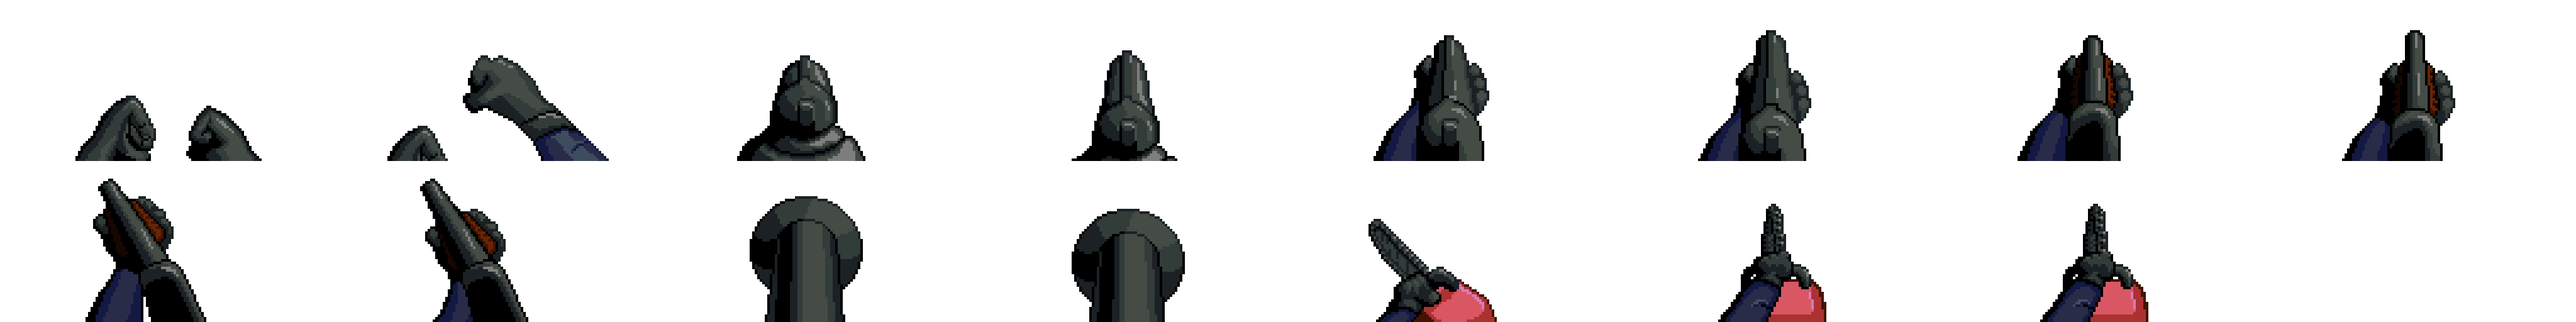
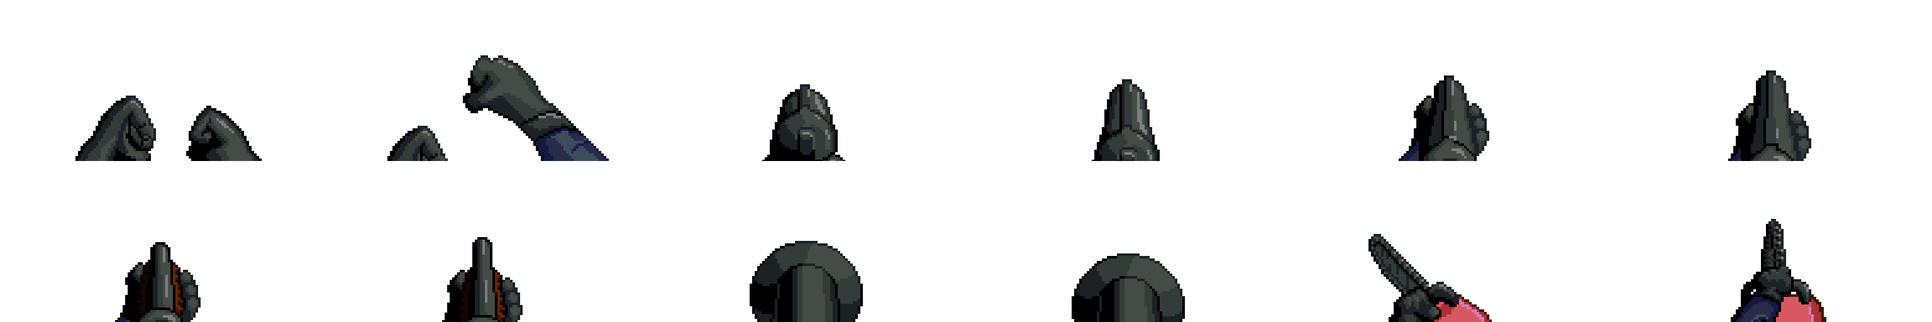
Weapon Changing

diff --git a/DirectX-RetroFPS/DirectX-RetroFPS/Player.cpp b/DirectX-RetroFPS/DirectX-RetroFPS/Player.cpp
@@ -19,7 +19,6 @@ Player::Player(Input& input, float windowWidth, float windowHeight, float moveme
 
 	InitialiseCollider();
 
-	m_shooter.SetDamage(10.0f);
 	m_shooter.SetParent(this);
 
 	m_health.SetMaxValue(100.0f);
@@ -27,11 +26,12 @@ Player::Player(Input& input, float windowWidth, float windowHeight, float moveme
 
 	m_armor.SetMaxValue(100.0f);
 
-	m_weapons[WeaponType::FIST] = std::make_unique<Weapon>(WeaponType::FIST, 2.0f, 0, 0.2f, true);
-	m_weapons[WeaponType::PISTOL] = std::make_unique<Weapon>(WeaponType::PISTOL, 10.0f, 10, 0.5f, false);
-	m_weapons[WeaponType::RIFLE] = std::make_unique<Weapon>(WeaponType::RIFLE, 5.0f, 20, 0.2f, false);
-	m_weapons[WeaponType::SHOTGUN] = std::make_unique<Weapon>(WeaponType::PISTOL, 20.0f, 5, 1.0f, false);
-	m_weapons[WeaponType::CANNON] = std::make_unique<Weapon>(WeaponType::PISTOL, 25.0f, 1, 2.0f, false);
+	m_weapons[WeaponType::FIST] = std::make_unique<Weapon>(WeaponType::FIST, 2.0f, 0, 0.2f, 4.0f, true);
+	m_weapons[WeaponType::CHAINSAW] = std::make_unique<Weapon>(WeaponType::CHAINSAW, 5.0f, 0, 0.5f, 4.0f, true);
+	m_weapons[WeaponType::PISTOL] = std::make_unique<Weapon>(WeaponType::PISTOL, 10.0f, 10, 0.5f, 15.0f, false);
+	m_weapons[WeaponType::RIFLE] = std::make_unique<Weapon>(WeaponType::RIFLE, 15.0f, 20, 0.2f, 15.0f, false);
+	m_weapons[WeaponType::SHOTGUN] = std::make_unique<Weapon>(WeaponType::SHOTGUN, 20.0f, 5, 1.0f, 8.0f, false);
+	m_weapons[WeaponType::CANNON] = std::make_unique<Weapon>(WeaponType::CANNON, 25.0f, 1, 2.0f, 8.0f, false);
 
 	m_shooter.SetWeapon(m_weapons[WeaponType::FIST].get());
 }
@@ -191,5 +191,30 @@ void Player::UpdateShooting(float deltaTime)
 	for (auto& weapon : m_weapons)
 	{
 		weapon.second->Update(deltaTime);
+	}
+
+	if (m_pInput->GetKeyboard().IsKeyDown('1'))
+	{
+		m_shooter.SetWeapon(m_weapons[WeaponType::FIST].get());
+	}
+	else if (m_pInput->GetKeyboard().IsKeyDown('2'))
+	{
+		m_shooter.SetWeapon(m_weapons[WeaponType::CHAINSAW].get());
+	}
+	else if (m_pInput->GetKeyboard().IsKeyDown('3'))
+	{
+		m_shooter.SetWeapon(m_weapons[WeaponType::PISTOL].get());
+	}
+	else if (m_pInput->GetKeyboard().IsKeyDown('4'))
+	{
+		m_shooter.SetWeapon(m_weapons[WeaponType::RIFLE].get());
+	}
+	else if (m_pInput->GetKeyboard().IsKeyDown('5'))
+	{
+		m_shooter.SetWeapon(m_weapons[WeaponType::SHOTGUN].get());
+	}
+	else if (m_pInput->GetKeyboard().IsKeyDown('6'))
+	{
+		m_shooter.SetWeapon(m_weapons[WeaponType::CANNON].get());
 	}
 }

diff --git a/DirectX-RetroFPS/DirectX-RetroFPS/GameHUDScreen.cpp b/DirectX-RetroFPS/DirectX-RetroFPS/GameHUDScreen.cpp
@@ -4,7 +4,7 @@ GameHUDScreen::GameHUDScreen(Graphics& graphics)
 {
 	m_screenType = ScreenType::GAME_HUD;
 
-	std::unique_ptr<AnimatedImageElement> hudWeapons = std::make_unique<AnimatedImageElement>(graphics, "Assets\\UI\\doom_weapons_ui.png", 8, 2);
+	std::unique_ptr<AnimatedImageElement> hudWeapons = std::make_unique<AnimatedImageElement>(graphics, "Assets\\UI\\doom_weapons_ui.png", 6, 2);
 	hudWeapons->SetOffset(Vector(0.0f, 0.0f, 6.0f));
 	hudWeapons->GetTransform().ApplyScalar(8.0f, 6.0f, 1.0f);
 	hudWeapons->ChangeSprite(0);
@@ -102,6 +102,39 @@ void GameHUDScreen::UpdateHUD(Player& player)
 	}
 
 	m_pCharacterDisplay->ChangeSprite(characterIndex);
+	switch (player.GetShooter().GetWeapon()->GetType())
+	{
+		case WeaponType::FIST:
+		{
+			m_pHUDWeapons->ChangeSprite(0);
+			break;
+		}
+		case WeaponType::CHAINSAW:
+		{
+			m_pHUDWeapons->ChangeSprite(10);
+			break;
+		}
+		case WeaponType::PISTOL:
+		{
+			m_pHUDWeapons->ChangeSprite(2);
+			break;
+		}
+		case WeaponType::RIFLE:
+		{
+			m_pHUDWeapons->ChangeSprite(4);
+			break;
+		}
+		case WeaponType::SHOTGUN:
+		{
+			m_pHUDWeapons->ChangeSprite(6);
+			break;
+		}
+		case WeaponType::CANNON:
+		{
+			m_pHUDWeapons->ChangeSprite(8);
+			break;
+		}
+	}
 
 	m_pHealthText->SetText(std::to_string((int)player.GetHealth().GetCurrentValue()));
 	m_pArmorText->SetText(std::to_string((int)player.GetArmor().GetCurrentValue()));

diff --git a/DirectX-RetroFPS/DirectX-RetroFPS/Shooter.cpp b/DirectX-RetroFPS/DirectX-RetroFPS/Shooter.cpp
@@ -2,11 +2,6 @@
 
 #include "Shooter.h"
 
-void Shooter::SetDamage(float damage)
-{
-	m_damage = damage;
-}
-
 void Shooter::SetParent(DrawableBase* drawable)
 {
 	m_pParent = drawable;
@@ -38,9 +33,9 @@ void Shooter::RegisterCollision(CollisionUtilities::RayCollision collision, Draw
 
 void Shooter::HandleHit()
 {
-	if (m_nearestCollisionDrawable != nullptr)
+	if (m_nearestCollisionDrawable != nullptr && m_nearestCollision.IntersectionDistance <= m_pWeapon->GetRange())
 	{
-		m_nearestCollisionDrawable->OnShot(m_pParent, m_damage, m_nearestCollision.IntersectionPosition);
+		m_nearestCollisionDrawable->OnShot(m_pParent, m_pWeapon->GetDamage(), m_nearestCollision.IntersectionPosition);
 	}
 }
 
@@ -57,6 +52,11 @@ bool Shooter::IsShooting()
 Ray& Shooter::GetShootRay()
 {
 	return m_shootRay;
+}
+
+Weapon* Shooter::GetWeapon()
+{
+	return m_pWeapon;
 }
 
 void Shooter::SetWeapon(Weapon* weapon)

diff --git a/DirectX-RetroFPS/DirectX-RetroFPS/Weapon.cpp b/DirectX-RetroFPS/DirectX-RetroFPS/Weapon.cpp
@@ -2,10 +2,11 @@
 
 #include <iostream>
 
-Weapon::Weapon(WeaponType type, float damage, int defaultBullets, float reloadDelay, bool infiniteBullets)
+Weapon::Weapon(WeaponType type, float damage, int defaultBullets, float reloadDelay, float range, bool infiniteBullets)
 {
 	m_weaponType = type;
 	m_damage = damage;
+	m_range = range;
 	m_bullets = defaultBullets;
 	m_reloadDelay = reloadDelay;
 	m_infiniteBullets = infiniteBullets;
@@ -34,6 +35,11 @@ float Weapon::GetDamage()
 	return m_damage;
 }
 
+float Weapon::GetRange()
+{
+	return m_range;
+}
+
 void Weapon::Update(float deltaTime)
 {
 	m_reloadTimer += deltaTime;
@@ -52,4 +58,9 @@ void Weapon::Fired()
 bool Weapon::CanFire()
 {
 	return m_reloadTimer >= m_reloadDelay && (m_bullets > 0 || m_infiniteBullets);
+}
+
+WeaponType Weapon::GetType()
+{
+	return m_weaponType;
 }

diff --git a/DirectX-RetroFPS/DirectX-RetroFPS/Weapon.h b/DirectX-RetroFPS/DirectX-RetroFPS/Weapon.h
@@ -5,23 +5,26 @@
 class Weapon
 {
 public:
-	Weapon(WeaponType type, float damage, int defaultBullets, float reloadDelay, bool infiniteBullets);
+	Weapon(WeaponType type, float damage, int defaultBullets, float reloadDelay, float range, bool infiniteBullets);
 	~Weapon() = default;
 
 	void AddBullets(int amount);
 	int GetBullets();
 
 	float GetDamage();
+	float GetRange();
 
 	void Update(float deltaTime);
 
 	void Fired();
 	bool CanFire();
+	WeaponType GetType();
 
 private:
 	WeaponType m_weaponType;
 
 	float m_damage;
+	float m_range;
 
 	bool m_infiniteBullets;
 	int m_bullets;

diff --git a/DirectX-RetroFPS/DirectX-RetroFPS/Shooter.h b/DirectX-RetroFPS/DirectX-RetroFPS/Shooter.h
@@ -10,7 +10,6 @@ class Shooter
 public:
 	Shooter() = default;
 
-	void SetDamage(float damage);
 	void SetParent(DrawableBase* drawable);
 
 	void StartShoot(Ray ray);
@@ -22,6 +21,7 @@ public:
 	bool IsShooting();
 	Ray& GetShootRay();
 
+	Weapon* GetWeapon();
 	void SetWeapon(Weapon* weapon);
 
 private:
@@ -32,6 +32,5 @@ private:
 
 	Weapon* m_pWeapon = nullptr;
 
-	float m_damage;
 	DrawableBase* m_pParent = nullptr;
 };

diff --git a/DirectX-RetroFPS/DirectX-RetroFPS/WeaponType.h b/DirectX-RetroFPS/DirectX-RetroFPS/WeaponType.h
@@ -3,6 +3,7 @@
 enum class WeaponType
 {
 	FIST,
+	CHAINSAW,
 	PISTOL,
 	RIFLE,
 	SHOTGUN,
